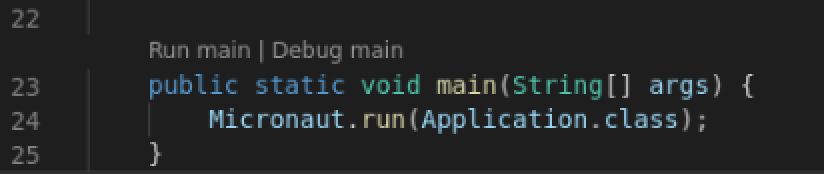
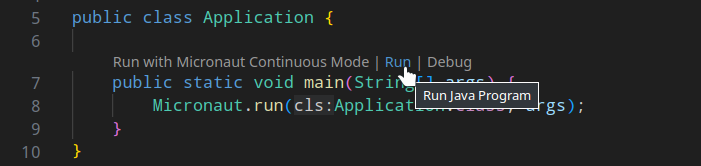
Documentation for Run and Debug Micronaut Applications.

diff --git a/micronaut/README.md b/micronaut/README.md
@@ -80,24 +80,43 @@ Run the **Go to Symbol in Workspace** command using Ctrl+T (Cmd+T on macOS) and 
 
 ### Run Your Micronaut Application
 
-**TODO** : Show how you can run micronaut applications from within source code using the code lense
-**TODO** : Show how you can run micronaut apps using the run set up in the side bar
+The easiest way to run your Micronaut application is to open the application's main class in editor and click on the **Run** code len that appears above the main method.
+
+![Run Micronaut Application](images/run_main_method.png)
+
+Alternatively, you can either select the **Run and Debug** (Ctrl+Shift+D) activity bar item and (without the **launch.json** file created) click on the **Run and Debug** button,
+or you can navigate to the **Run** menu item and then select **Run Without Debugging** Ctrl+F5. If a request to select debugger appears, select **Java**. The selected debugger
+will run out-of-box by automatically finding the main class and generating a default launch configuration in memory to launch your application.
+
+![Select Debugger in Run and Debug Activity](images/run_debug_activity.png)
+
+To customize and persist your launch configuration, select the **create a launch.json file** link in the **Run and Debug** view. For more details on how to create the launch.json, read [Launch configurations](https://code.visualstudio.com/docs/editor/debugging#_launch-configurations); for more details on configuration options for Java, you can read [Configuration options](https://code.visualstudio.com/docs/java/java-debugging#_configuration-options).
 
 ### Live Reloading of Applications
 
-**TODO** : Show how we work with the live reloading of mn apps when built (using gradle). This is supported by the code lense
+One of the nice Micronaut features is an ability to automatically recompile and restart the application (or its parts) when changes to the source files are detected.
+To run your Micronaut application with the automatic restarts enabled, open the application's main class in editor and click on the **Run with Micronaut Continuous Mode** code len that appears above the main method.
+
+![Run Micronaut Application in Continuous Mode](images/run-continuous.png)
+
+Alternatively, you can select the **Run and Debug** (Ctrl+Shift+D) activity bar item and select the **create a launch.json file** link. Within the created **launch.json** file,
+add a new configuration, make sure to set the **JDT_LAUNCHWRAP_MICRONAUT_CONTINUOUS** environment variable to **true**, then select the newly added configuration in the **Run and Debug** view, and finally click on the **Run** icon or press Ctrl+F5.
+
+![Select Launch Configuration to Run Micronaut Application in Continuous Mode](images/run-continuous-config.png)
 
 ### Debug Your Micronaut Application
 
-**TODO** : Show how to debug an application using the code lense
-**TODO** : Show how to set up a debug config and debug the application from the Debug panel in side bar
+The easiest way to start debugging your Micronaut application is to open the application's main class in editor and click on the **Debug** code len that appears above the main method.
 
-To debug a Micronaut application, first create a launch configuration:
+![Debug Micronaut Application](images/debug_main_method.png)
 
-1. Open the file to be debugged or run.
-2. Switch to the Debug view by clicking the bug icon in the left-hand side panel. The newly opened window will suggest you create a _launch.json_ file.
-3. Select the **Java+** environment.
-4. Start debugging. Press `F5` or navigate to **Run**, then **Start Debugging**.
+Alternatively, you can either select the **Run and Debug** (Ctrl+Shift+D) activity bar item and (without the **launch.json** file created) click on the **Run and Debug** button,
+or you can navigate to the **Run** menu item and then select **Start Debugging** F5. If a request to select debugger appears, select **Java**. The selected debugger
+will run out-of-box by automatically finding the main class and generating a default launch configuration in memory to launch your applicationin in debug mode.
+
+![Select Debugger in Run and Debug Activity](images/run_debug_activity.png)
+
+To customize and persist your launch configuration, select the **create a launch.json file** link in the **Run and Debug** view. For more details on how to create the launch.json, read [Launch configurations](https://code.visualstudio.com/docs/editor/debugging#_launch-configurations); for more details on configuration options for Java, you can read [Configuration options](https://code.visualstudio.com/docs/java/java-debugging#_configuration-options).
 
 ### Package Your Micronaut Application
 
